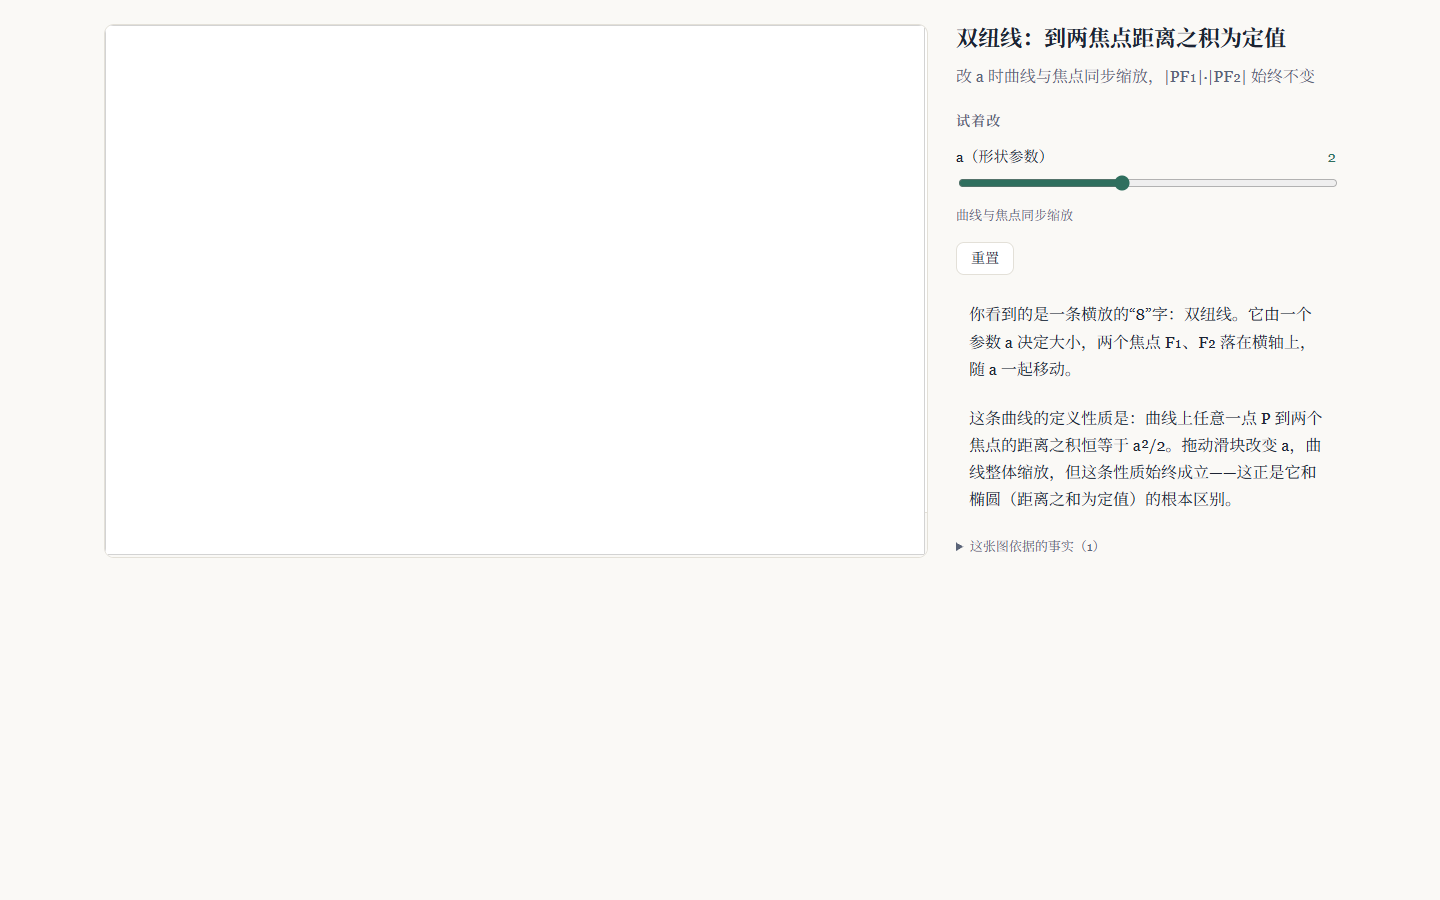
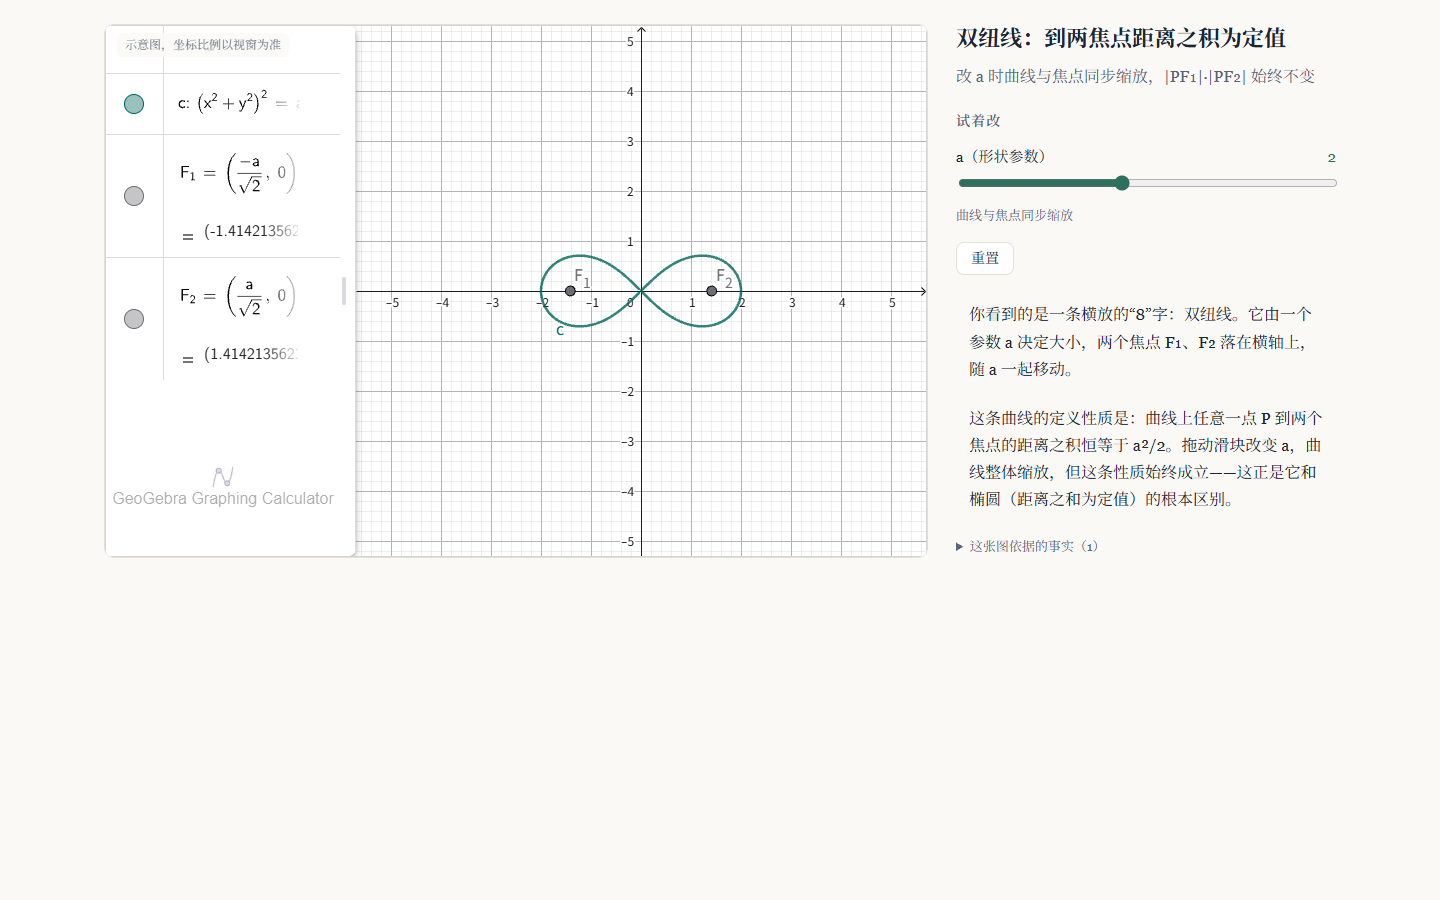
docs: 回填 #77 实验室模板壳重构交付（接龙 #80），重拍双纽线验收三张截图

diff --git a/docs/HANDOFF.md b/docs/HANDOFF.md
@@ -111,7 +111,7 @@ Runtime: 本地 Qoder Desktop        # 或 非本地 / CI
 
 | 项 | 值 |
 | --- | --- |
-| 最新接龙条目 | §4.5 #79（QoderWang2，2026-11-26，**更正 #76：R4 工作台 AI 四步确定性骨架＋UI 完成并实测**，四道门全过、无 key 端到端实测、修复两缺陷；截图与真实模型实测待补）；并行 #77 实验室生成重构、#78 长上下文瘦身仍进行中；main 同步点 `101e7ac` 含 R3 全系＋清理笔） |
+| 最新接龙条目 | §4.5 #80（QoderWang2，2026-11-26，**更正 #77：实验室「确定性模板壳＋模型只写核心」重构完成并实测**，四道门全过、e2e 16/16、双纽线＋GeoGebra 复现通过＋三张截图；真实模型实测待补）；并行 #78 长上下文瘦身仍进行中；main 同步点 `101e7ac` 含 R3 全系＋清理笔） |
 | 分支 | 本目录自 #66 起是 Git 仓库，remote 同 `branch-mindmap`（`Thalya4138/Knowledge_Vein_Qoder`）。**当前工作分支 `task/R3-QoderWang2` 已 push；main 经用户授权直接合并（#75），同步点 `0b353ef`（含 R3 全系＋清理笔）**；旧远端 `task/R2-L4-lab-QoderWang2` 停 `ae589ad`、`task/R2-L4-connection-QoderWang2` 停 `4e076cf`，均已并入 main |
 | 合并状态 | PR #1–#6 已进 `main`（T0-0 / T0-2 / T1-1 / T0-1 全部在内）。`task/T0-2-QoderWang1` 上未合并的 5 个文档提交已由 #18 并入，**该分支不必再开 PR**；某条分支差多少用 `git log --oneline origin/main..<branch>` 现取，别在文档里写条数 |
 | 下一位的入口 | ① 用户决定 #58/#59 的入库方式（并入哪个 task 分支、真源是否单独一笔）与是否发布本轮 dist；② #55 / #56 的本地构建同样未部署；③ 真实 key 的生成质量与 BYOK 公网跨域仍未实测；④ 力学导图仍是整图示例（不参与挂载），是否转 `MDoc` 待定；⑤ 用户对 `docs/samples/r4-direction.html` 与拓印美工的表态仍待补进 `DESIGN.md` §14；⑥ #58 接入的光合作用页是**第 17 版**，第 18 轮增量（物质层重构＋徽标修复）只在非 Git 的 `可视化demo开发/`，是否同步入库并发布待用户定（#60）；⑦ **第 19 轮（#61）就地修改的正是 #58 取版的那份 `光合作用单画布可视化v4-第17轮原版.html`**（五方法覆盖卡尔文区＋去脉冲环＋ATP 方程式锚催化头＋点击根因修复），改动前干净版在 `-改动前.html`（85507 B，即 #58 入库口径）；新增 `可视化高质量生产Prompt总纲.md`（v3.0，质量基线＝修改后的第 17 轮原版文件）。是否以第 19 轮版替换 `content/visualizations/` 里的第 17 版并重构建/发布，待用户定。读 `TASK_R2_LINKAGE.md` 顶部状态 |
@@ -313,8 +313,9 @@ CI 改写未经远端验证。
 | 76 | 2026-11-26 | QoderWang2 | **认领：R4 工作台 AI 生成与维护（用户四步「先生成讲义后编辑」「开始干」）**：①对话框收文本/PDF/网页/截图→AI 整理方案（建文件夹/改名）+讲义目录→预览确认才落盘；②逐节资源发现（旁栏资源卡，进 resources/manifest.json）+教材体讲义存 notes/；③问答一键补进笔记（SMART_SEARCH 补入 diff，确认可撤销）+对话历史落 .vein/desk/；④AI 改写选中段落（先看差异、确认写入、一步撤回）。四步共用 ProposedChange 写入闸门（changes.ts/ChangePreview）。复用 exploreAi 附件与检索、mapWriter、bridge before 快照撤销、NoteView 块级 undo。**不做**：不 push main、不部署、不装付费 API、不改 content/demo 第三方来源声明、不覆盖并行会话未提交的 deskAsk 在制品。起点 `bb8cb94`（续用 `task/R3-QoderWang2`，工作树含并行会话未提交的问答在制品，只追加不重写） | **进行中** | 搜索按 SYNC_AND_API §6 路线1（模型提候选、用户采纳进 manifest，讲义只引用不搬运）；真实联网搜索路线2/3 与真实模型生成质量未实测；无 key 全降级为标注示例 | 本条 + `DEVELOPMENT_LOG.md` 顶部 |
 | 77 | 2026-11-26 | QoderWang2 | **认领：实验室生成重构「确定性模板壳＋模型只写核心」（用户指派「你来」）**。起因：公网双纽线指定 GeoGebra 生成，续写 4 趟全撞输出上限熔断（`ai/chat.ts` MAX_CONTINUE）——现设计让模型从零写满配单文件 HTML（双主题/阐释栏/KaTeX/无障碍全赌模型记得），简单概念写不完，大任务必熔断。改法：页面壳由程序固定模板生成（布局、双主题、阐释栏、沙箱契约、veinReady、无障碍），模型只写画图/交互核心代码＋阐释文本，程序组装并核对；`prompts/VISUALIZE.md` 与 `features/lab/generate.ts` 写码/修复链同步改，补测试与截图。**不做**：不 push main、不部署、不碰 R4 工作台文件（changes/desk*/AiDock 等）、不覆盖并行会话未提交在制品。**顺序约束：等 #76 会话提交当前切片（含 chat.ts 流式）后再动 lab 文件**，避免双改 generate.ts/GenPanel.tsx；已捎消息告知 #76 会话 | **进行中**（等 #76 提交） | 真实模型生成质量仍须用户 key 实测；续写额度与重复检测是否另调，视重构后输出体量定 | 本条 + `DEVELOPMENT_LOG.md` 顶部 |
 | 78 | 2026-11-26 | QoderWang2 | **认领：图谱/关联探索/工作台讲义的长上下文瘦身（用户报「其他几个板块好像有同样的毛病。API-AI后上下文太长模型生成不出来太慢」）**。实测根因三处：①图谱按文件名序塞至多 48,000 字笔记进单次请求，且每次改图把全部笔记＋整张旧图重发一遍；②关联探索逐节写作时每节重发此前全部小节的全文，越写越肥；③讲义提示词 16,900 字里变更记录/用户原话/示例目录未标维护者专用照发给模型，修订讲义时 existing_note 全文无上限塞入。改法：图谱笔记按相关度选取（预算 32k、单段 2400、更新路径 12k）；关联探索旧小节改标题＋开头摘要（最近一节保留全文）、附件加总量上限；讲义提示词 NOTE_GENERATION 维护者段落包 author 标记。**existing_note 不截断**：修订走全文重写（lessonChanges 整文件落盘），截断旧讲义会让模型看不到尾部、写回时丢内容，保真优先。**不做**：不动 #77 实验室重构、不重写 #76 的 R4 文件（deskLesson/NOTE_GENERATION 只做定点小改）、不 push main、不部署、不覆盖并行会话未提交在制品 | **进行中** | 真实模型生成质量仍须用户 key 实测；摘要回传与跨节引用的质量权衡待真实模型验证 | 本条 + `DEVELOPMENT_LOG.md` 顶部 |
-| 79 | 2026-11-26 | QoderWang2 | **更正 #76：R4 工作台 AI 四步确定性骨架＋UI 完成并实测**。四道门全过（`verify:content`/`typecheck`/328 tests·35 files/`build`）。in-app Browser 无 key 端到端实测四步：①整理示例方案＋目录→预览（新建讲义）→写入 1 处→撤销；②2 张资源卡（许可/可信理由/局限＋采纳）→生成讲义＋manifest→预览（新建讲义＋修改 manifest）→写入 2 处→撤销；③预置问答→补进笔记差异（修改 `notes/2.1-…md`，带日期与出处）→写入 1 处→撤销，对话历史刷新后仍在（`.vein/desk/threads.json`）；④选中正文浮出「AI 改写」，无 key 诚实提示需接入模型（不伪造），带 key 差异/撤销由单测覆盖。实测修复两缺陷：非问答模式收起 dock 后无重开入口（收起重置回问答模式）、示例文件无 `path` 致补进笔记定位失败（新增 `filePath()` 从 `/demo/<ws>/…` 推路径），均在 `AiDock.tsx`。**仍欠**：桌面＋窄屏两张截图（Browser 面板隐藏 `NATIVE_BROWSER_VIEWPORT_UNAVAILABLE`，待用户打开本会话 Browser）、真实模型生成质量与真实联网搜索（路线2/3）实测、带 key 改写端到端 | 确定性骨架与无 key 降级**已实测**；截图与真实模型实测待补 | 用户打开 Browser 面板补两张截图；真实模型 key 实测；提交/推送/部署待用户授权 | 本条 + `DEVELOPMENT_LOG.md` 夜四 R4 条 |
-**下一位从这里接第 80 条。** **新行紧贴上一行写，中间不留空行**——空行会把表格截断 **新行紧贴上一行写，中间不留空行**——空行会把表格截断，Obsidian 与 GitHub 都会把后面的行渲染成乱码。只加行；要更正前人的条目，就在自己条目里写"更正 #N：……"。
+| 79 | 2026-11-26 | QoderWang2 | **更正 #76：R4 工作台 AI 四步确定性骨架＋UI 完成并实测**。四道门全过（`verify:content`/`typecheck`/328 tests·35 files/`build`）。in-app Browser 无 key 端到端实测四步：①整理示例方案＋目录→预览（新建讲义）→写入 1 处→撤销；②2 张资源卡（许可/可信理由/局限＋采纳）→生成讲义＋manifest→预览（新建讲义＋修改 manifest）→写入 2 处→撤销；③预置问答→补进笔记差异（修改 `notes/2.1-…md`，带日期与出处）→写入 1 处→撤销，对话历史刷新后仍在（`.vein/desk/threads.json`）；④选中正文浮出「AI 改写」，无 key 诚实提示需接入模型（不伪造），带 key 差异/撤销由单测覆盖。实测修复两缺陷：非问答模式收起 dock 后无重开入口（收起重置回问答模式）、示例文件无 `path` 致补进笔记定位失败（新增 `filePath()` 从 `/demo/<ws>/…` 推路径），均在 `AiDock.tsx`。**仍欠**：桌面＋窄屏两张截图（Browser 面板隐藏 `NATIVE_BROWSER_VIEWPORT_UNAVAILABLE`，待用户打开本会话 Browser）、真实模型生成质量与真实联网搜索（路线2/3）实测、带 key 改写端到端 | 确定性骨架与无 key 降级**已实测**；截图与真实模型实测待补 | 用户打开 Browser 面板补两张截图；真实模型 key 实测；**已提交 `b465965`**（共享切片落盘，含流式 ai/chat＋stream.test、lab generate/GenPanel/shell 基线、长上下文瘦身，供 #77 在已提交代码上重构）；本会话不再改 `features/lab/`、`prompts/VISUALIZE.md`、`styles/lab.css`、`ai/chat.ts`（交 #77）；推送/部署待授权 | 本条 + `DEVELOPMENT_LOG.md` 夜四 R4 条 |
+| 80 | 2026-11-26 | QoderWang2 | **更正 #77：实验室「确定性模板壳＋模型只写核心」重构完成并实测**。实现已随 `b465965` 落盘（`shell.ts` assemblePage/slidersOf/checkCore、`generate.ts` 写核心＋核心-only 修复（旧存档退回整页修复）、`VISUALIZE.md` v2.0、shell 15 项测试）；`GenRun.code` 仍是组装后整页，沙箱/下载/历史界面零改动。四道门全过（`typecheck`/328 tests·35 files/`build` 1.01s）。e2e `scripts/e2e-lab-gen.mjs` 16/16：9 浏览器工具免修复跑通、沙箱隔离、自动修复链、Manim/Desmos/PhET、刷新重载、历史单条。**复现用户失败案例**：双纽线＋GeoGebra 走新管线，headless Chrome 实测曲线与焦点画出、拖壳滑块 a 2→3 同步缩放、首帧后加载提示自动隐藏、控制台零报错；截图 `docs/evidence/r77-lemniscate-{1440,a3-1440,390}.png`（本条随附重拍版，替换 b465965 里的空白早期版）。GeoGebra 冷加载 CDN 约 20 秒属预期，壳持续显示加载提示 | 确定性管线**已实测**；真实模型（用户 key）生成质量未实测 | 核心体量目标 ≤15 KB（旧整页约 60 KB），续写熔断预期大幅缓解须实测确认；`GenPanel` 写码步标签「写页面」措辞待改；推送/部署待用户授权 | 本条 + `DEVELOPMENT_LOG.md` 夜五 #77 条 |
+**下一位从这里接第 81 条。** **新行紧贴上一行写，中间不留空行**——空行会把表格截断 **新行紧贴上一行写，中间不留空行**——空行会把表格截断，Obsidian 与 GitHub 都会把后面的行渲染成乱码。只加行；要更正前人的条目，就在自己条目里写"更正 #N：……"。
 
 ---
 

diff --git a/docs/DEVELOPMENT_LOG.md b/docs/DEVELOPMENT_LOG.md
@@ -5,6 +5,27 @@
 
 ---
 
+## 2026-11-26（夜五）· QoderWang2 · 实验室生成重构：确定性模板壳＋模型只写核心（#77 交付）
+
+**用户指令**：公网用 DS 模型生成「双纽线」可视化、指定 GeoGebra，近 10 分钟无果，报「模型的回答太长，续写几次后仍未写完」；「这么简单的东西都生成不完吗？？？那其他的大的可视化任务怎么办」；指派「你来」。
+
+**根因**：旧管线让模型从零写满配单文件 HTML（双主题、阐释栏、滑块、KaTeX、无障碍、沙箱契约全赌模型记得），简单概念也要输出约 60 KB；计划＋写码两趟串行调用，写码趟撞输出上限后 `ai/chat.ts` 续写 3 趟仍撞（MAX_CONTINUE 熔断），且续写重发全文造成重复浪费。输出预算被页面壳吃掉，画图内容反而写不完——任务越大越必熔断。
+
+**范围**：按 AGENTS.md「先确定性、后生成式」——新增 `features/lab/shell.ts`：`assemblePage(plan, cap, core, lang)` 由程序确定性生成整页（一屏布局、明暗主题、滑块/重置/步进控件、阐释栏与高亮、标题、caveat、KaTeX、键盘可达、`prefers-reduced-motion`、出错人话提示、首帧成功后自动 `veinReady`）；`slidersOf` 净化控件 key 并补默认规格；`checkCore` 核对核心代码（非空、≤60 KB、无 `</script>`、必须 `vein.onDraw`、禁存储/弹窗、只许钉版库地址）。模型只写一段 ```js 画图核心（`vein.stage/onDraw/loading/tex` 契约）。`generate.ts` 写码步改「写核心」、修复步只重发核心（旧存档无 `core` 字段时退回整页修复）；`GenRun.code` 仍是组装后的整页，沙箱/下载/历史界面零改动。`prompts/VISUALIZE.md` 升 v2.0（壳职责与核心契约分界）。Three.js 走 importmap，其余钉版库经典脚本注入。
+
+**不做**：不 push main、不部署、不碰 R4 工作台文件；`ai/chat.ts` 流式与 `GenPanel.tsx` 进度 UI 属 #76 会话，未改。
+
+**验证（2026-11-26 回填）**：
+
+- **四道门**：`typecheck` ✓ ／ `test` 328 passed（35 files，含本轮新增 shell 15 项与 generate 控件规格/核心提取项）✓ ／ `build` ✓（1.01s）。
+- **e2e**（`scripts/e2e-lab-gen.mjs`，假模型＋真 CDN 库＋真沙箱）：16/16 通过——9 个浏览器工具核心代码免修复跑通、沙箱隔离（存储/弹窗/越权地址被拦）、自动修复链（计划→核心→修复）、Manim 本地脚本、Desmos 替换、PhET 嵌入、刷新重载、历史单条。截图 `docs/evidence/labgen-*.png`。
+- **复现用户失败案例**：双纽线＋GeoGebra 走新管线（壳组装＋手写核心经 `wrapHtml` 沙箱契约），headless Chrome 实测：曲线与焦点 F₁/F₂ 画出、拖壳滑块 a 2→3 曲线与焦点同步缩放（代数面板读数 ±1.414→±2.121）、加载提示首帧后自动隐藏、控制台零报错；桌面 1440＋拖后＋窄屏 390 三张截图 `docs/evidence/r77-lemniscate-*.png`。GeoGebra 冷加载 CDN 约需 20 秒，期间壳持续显示「正在加载……」，属预期。
+- **落盘**：实现随并行会话共享提交 `b465965` 进 `task/R3-QoderWang2`（该会话声明此后不再改 lab 文件，交本会话）；本条与接龙 #80、重拍的三张双纽线截图为交付回填。
+
+**已知缺陷 / 下一步**：真实模型（用户 key）生成质量未实测——核心代码体量已从约 60 KB 降到 15 KB 目标，续写熔断预期大幅缓解，但须实测确认；`GenPanel` 写码步标签仍写「写页面」，措辞待 #76 会话顺手改；续写额度与重复检测是否另调，视真实模型输出体量定。推送/部署待用户授权。
+
+---
+
 ## 2026-11-26（夜五）· QoderWang2 · 长上下文瘦身：图谱 / 关联探索 / 工作台讲义（进行中）
 
 **用户指令**：「其他几个板块好像有同样的毛病。API-AI后上下文太长模型生成不出来太慢。」——实验室（#77）之外，其余接模型的板块也要瘦身。
@@ -46,7 +67,7 @@
 - **实测中发现并修复两处缺陷**：① 在「整理/生成讲义」模式收起对话框后，唯一的重新入口（问答输入栏）只在该模式渲染，导致 dock 整个消失无法重开——收起时重置回问答模式（`AiDock.tsx`）。② 示例工作区文件不带 `path`，「补进笔记」按 `f.path` 定位失败——新增 `filePath()` 从原文地址 `/demo/<ws>/…` 推出存储路径（`AiDock.tsx`）。
 - **截图**：in-app Browser 面板当前隐藏（`NATIVE_BROWSER_VIEWPORT_UNAVAILABLE`），桌面＋窄屏两张交互截图待用户打开本会话 Browser 面板后补；以上为结构＋脚本实测证据。
 
-**已知缺陷 / 下一步**：真实模型生成质量与真实联网搜索（路线2/3）未实测；带 key 的改写差异/撤销仅单测覆盖，未做真实模型端到端；工作区导出（#68）仍欠。提交/推送/部署待用户授权。
+**已知缺陷 / 下一步**：真实模型生成质量与真实联网搜索（路线2/3）未实测；带 key 的改写差异/撤销仅单测覆盖，未做真实模型端到端；工作区导出（#68）仍欠。**已提交 `b465965`**（共享切片落盘，供 #77 在已提交代码上重构实验室模板壳）；本会话不再改 `features/lab/`、`prompts/VISUALIZE.md`、`styles/lab.css`、`ai/chat.ts`；推送/部署待用户授权。
 
 ---
 
